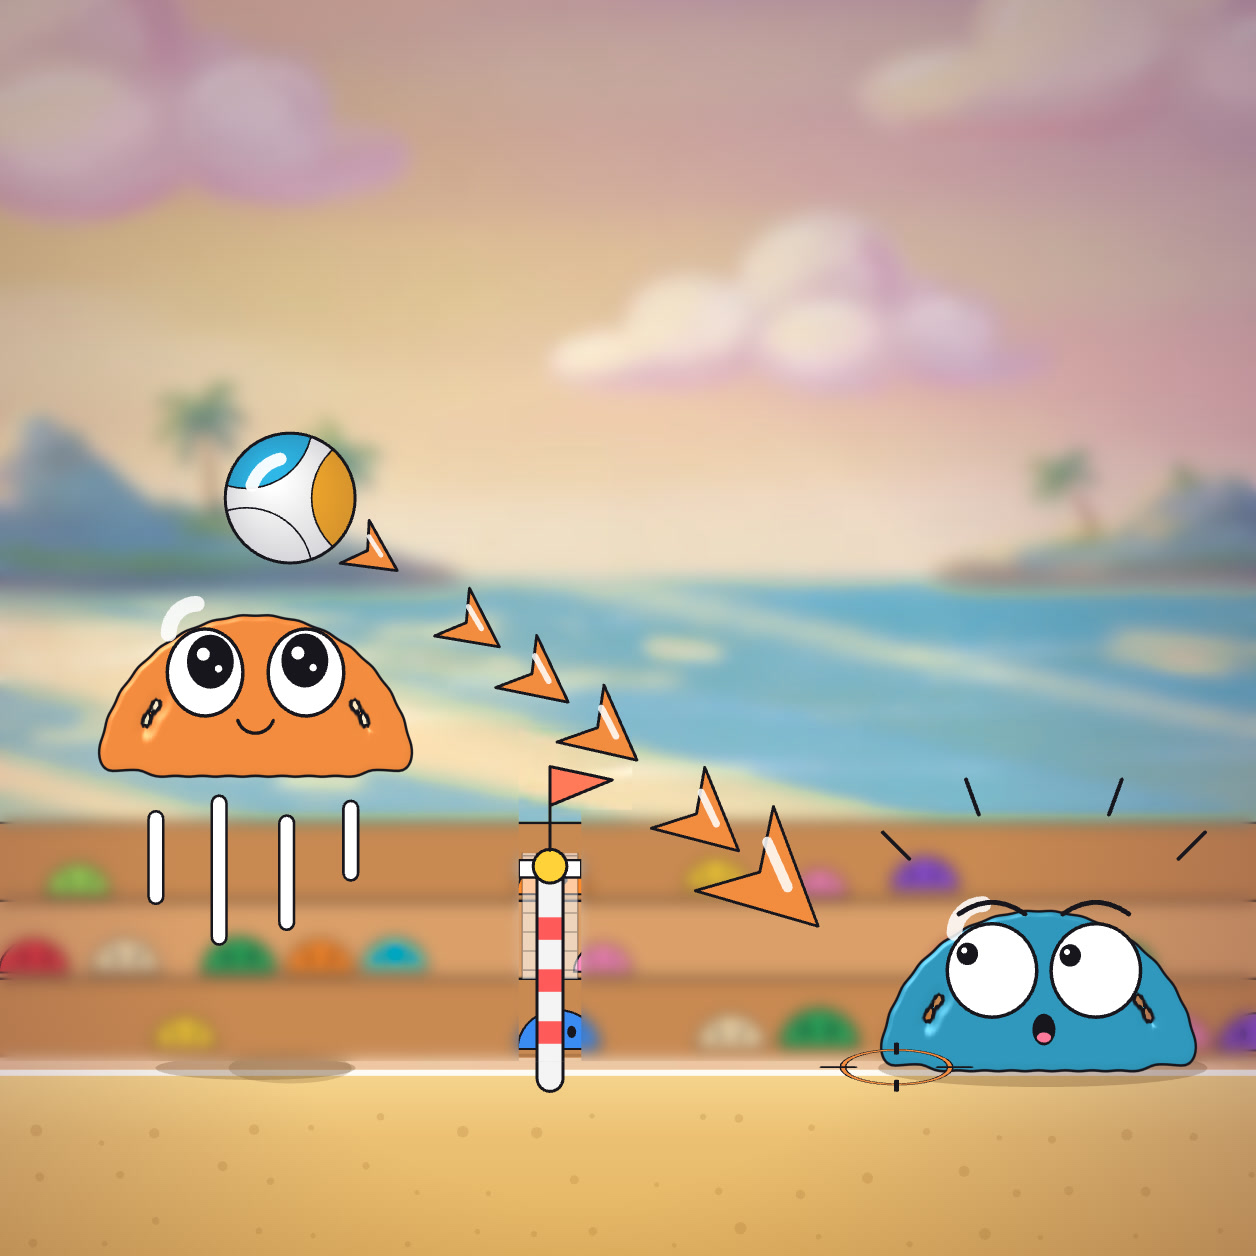
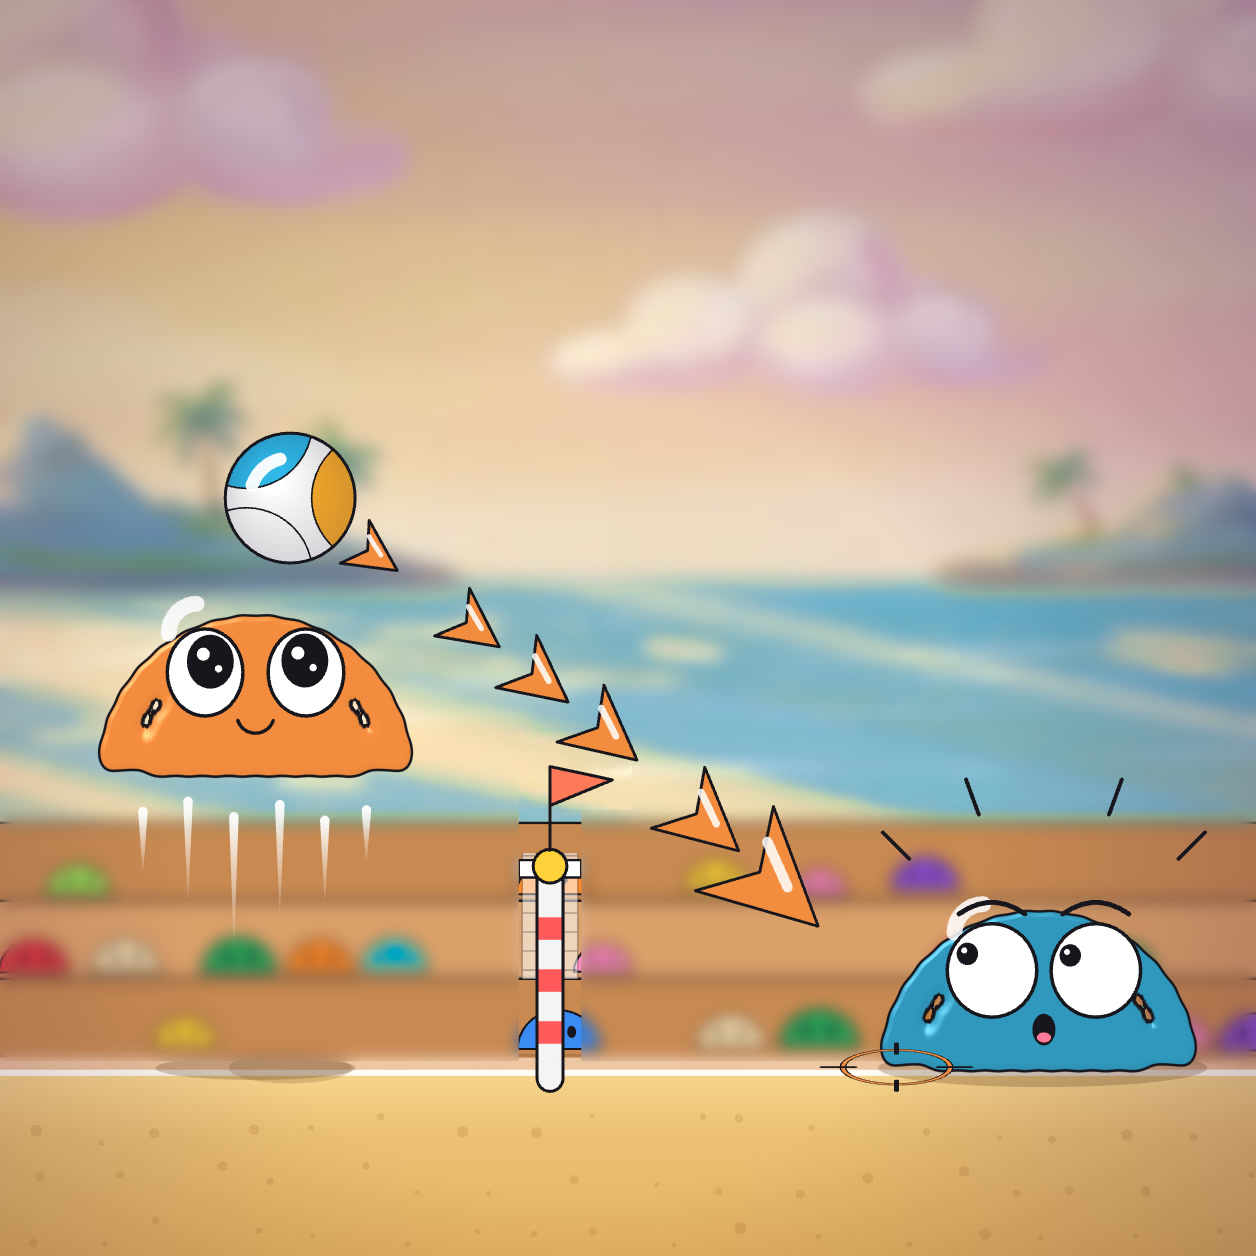
build: riscos de impulso da thumb finos e afilados
- tools/thumb.html: 6 tracos brancos finos, sem contorno, que afinam e somem para
  baixo (os grossos e contornados ficavam grosseiros)
- marketing/thumb: opcoes, tiles e a final regeradas

Claude-Session: https://claude.ai/code/session_01PFBGZbJjoog63eKZj94J4v

Changed region(s): [[0.0932, 0.621, 0.3105, 0.7452]]

diff --git a/tools/thumb.html b/tools/thumb.html
@@ -179,26 +179,28 @@ function thumb(cv, n) {
 
 /**
  * Riscos de impulso embaixo da Laranjinha (no lugar dos respingos de chao, pedido do usuario):
- * tracos verticais soltos do corpo (com um vao, comecos e comprimentos desencontrados, os do
- * meio mais longos), brancos com contorno de tinta como o resto do traco do jogo. Colados na
- * cupula e afinando, pareciam tentaculos.
+ * tracos finos soltos do corpo, que afinam e somem para baixo (branco sem contorno), com comecos
+ * e comprimentos desencontrados, os do meio mais longos. Colados na cupula pareciam tentaculos;
+ * grossos e contornados, grosseiros.
  */
 function desenharImpulso(g, cam) {
   aplicar(g, cam, 1);
   const base = P.slimes[0].y;
-  const tr = Math.max(0.03, ESTILOS.a.traco / cam.s);
-  const w = 0.14;
-  const riscos = [[-1.15, 0.5, 0.9], [-0.42, 0.32, 1.55], [0.36, 0.55, 1.15], [1.1, 0.38, 0.75]];
-  g.lineCap = 'round';
-  for (const [cor, larg] of [[TINTA, w + tr * 2], ['#ffffff', w]]) {
-    g.strokeStyle = cor;
-    g.lineWidth = larg;
+  const riscos = [[-1.3, 0.42, 0.75], [-0.78, 0.3, 1.2], [-0.25, 0.48, 1.55], [0.28, 0.34, 1.35], [0.8, 0.52, 1.0], [1.28, 0.4, 0.65]];
+  for (const [dx, vao, l] of riscos) {
+    const x = O.x + dx;
+    const y0 = base - vao;
+    const y1 = y0 - l;
+    const w = 0.055;
+    const gr = g.createLinearGradient(x, y0, x, y1);
+    gr.addColorStop(0, 'rgba(255, 255, 255, 0.95)');
+    gr.addColorStop(1, 'rgba(255, 255, 255, 0)');
+    g.fillStyle = gr;
     g.beginPath();
-    for (const [dx, vao, l] of riscos) {
-      g.moveTo(O.x + dx, base - vao);
-      g.lineTo(O.x + dx, base - vao - l);
-    }
-    g.stroke();
+    g.arc(x, y0, w, 0, Math.PI);
+    g.lineTo(x, y1);
+    g.closePath();
+    g.fill();
   }
   g.setTransform(1, 0, 0, 1, 0, 0);
 }
